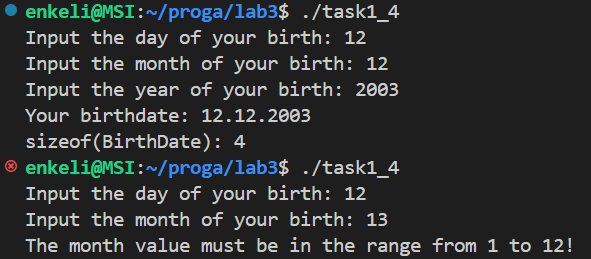
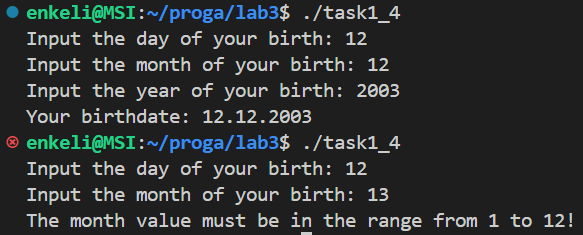
task1_2 add field 'name' to struct Vector

Changed region(s): [[0.0, 0.0, 0.988, 1.0]]

diff --git a/lab3/task1_2.c b/lab3/task1_2.c
@@ -1,8 +1,10 @@
 #include <stdio.h>
 #include <stdlib.h>
 #include <math.h>
+#include <string.h>
 
 typedef struct Vector {
+    char name[10];
     int x;
     int y;
     int z;
@@ -14,19 +16,16 @@ double vectorModule(Vector);
 void printVector(Vector);
 
 int main() {
-    Vector a = {1, 2, 3};
-    Vector b = {4, 5, 6};
+    Vector a = {"a", 1, 2, 3};
+    Vector b = {"b", 4, 5, 6};
     int sc_prod = scalarMultiplyVectors(a, b);
     Vector vec_prod = vectorMultiplyVectors(a, b);
     double a_mod = vectorModule(a);
     double b_mod = vectorModule(b);
 
-    printf("a = ");
     printVector(a);
-    printf("b = ");
     printVector(b);
     printf("a • b = %d\n", sc_prod);
-    printf("a × b = ");
     printVector(vec_prod);
     printf("|a| = %.3lf\n", a_mod);
     printf("|b| = %.3lf\n", b_mod);
@@ -40,6 +39,9 @@ int scalarMultiplyVectors(Vector a, Vector b) {
 
 Vector vectorMultiplyVectors(Vector a, Vector b) {
     Vector res;
+    strcpy(res.name, a.name);
+    strcat(res.name, " × ");
+    strcat(res.name, b.name);
     res.x = a.y * b.z - a.z * b.y;
     res.y = -(a.x * b.z - a.z * b.x);
     res.z = a.x * b.y - a.y * b.x;
@@ -51,5 +53,5 @@ double vectorModule(Vector a) {
 }
 
 void printVector(Vector a) {
-    printf("(%d, %d, %d)\n", a.x, a.y, a.z);
+    printf("%s = (%d, %d, %d)\n", a.name, a.x, a.y, a.z);
 }

diff --git a/lab3/task1_4.c b/lab3/task1_4.c
@@ -32,7 +32,6 @@ int main() {
 
     BirthDate bd = {day, month, year - START_YEAR};
     printf("Your birthdate: %d.%d.%d\n", bd.day, bd.month, bd.year + START_YEAR);
-    printf("sizeof(BirthDate): %lu\n", sizeof(BirthDate));
 
     return EXIT_SUCCESS;
 }

diff --git a/lab3/lab-3-Трофимцова_Е_курс1_ИВТ-1.md b/lab3/lab-3-Трофимцова_Е_курс1_ИВТ-1.md
@@ -124,8 +124,10 @@ $$
 #include <stdio.h>
 #include <stdlib.h>
 #include <math.h>
+#include <string.h>
 
 typedef struct Vector {
+    char name[10];
     int x;
     int y;
     int z;
@@ -137,19 +139,16 @@ double vectorModule(Vector);
 void printVector(Vector);
 
 int main() {
-    Vector a = {1, 2, 3};
-    Vector b = {4, 5, 6};
+    Vector a = {"a", 1, 2, 3};
+    Vector b = {"b", 4, 5, 6};
     int sc_prod = scalarMultiplyVectors(a, b);
     Vector vec_prod = vectorMultiplyVectors(a, b);
     double a_mod = vectorModule(a);
     double b_mod = vectorModule(b);
 
-    printf("a = ");
     printVector(a);
-    printf("b = ");
     printVector(b);
     printf("a • b = %d\n", sc_prod);
-    printf("a × b = ");
     printVector(vec_prod);
     printf("|a| = %.3lf\n", a_mod);
     printf("|b| = %.3lf\n", b_mod);
@@ -163,6 +162,9 @@ int scalarMultiplyVectors(Vector a, Vector b) {
 
 Vector vectorMultiplyVectors(Vector a, Vector b) {
     Vector res;
+    strcpy(res.name, a.name);
+    strcat(res.name, " × ");
+    strcat(res.name, b.name);
     res.x = a.y * b.z - a.z * b.y;
     res.y = -(a.x * b.z - a.z * b.x);
     res.z = a.x * b.y - a.y * b.x;
@@ -174,7 +176,7 @@ double vectorModule(Vector a) {
 }
 
 void printVector(Vector a) {
-    printf("(%d, %d, %d)\n", a.x, a.y, a.z);
+    printf("%s = (%d, %d, %d)\n", a.name, a.x, a.y, a.z);
 }
 ```
 
@@ -369,7 +371,6 @@ int main() {
 
     BirthDate bd = {day, month, year - START_YEAR};
     printf("Your birthdate: %d.%d.%d\n", bd.day, bd.month, bd.year + START_YEAR);
-    printf("sizeof(BirthDate): %lu\n", sizeof(BirthDate));
 
     return EXIT_SUCCESS;
 }
